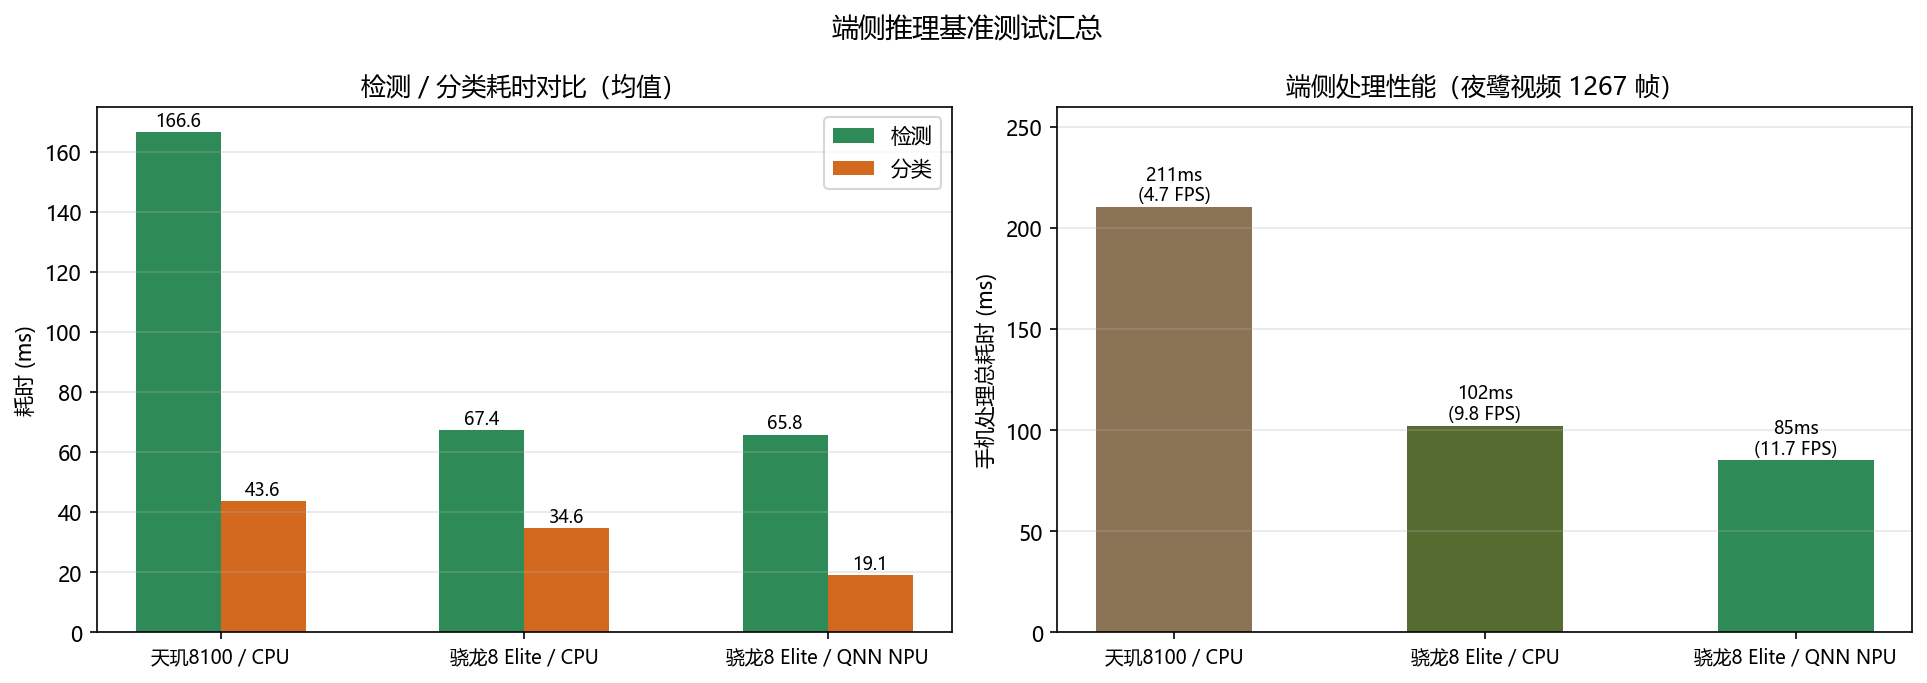
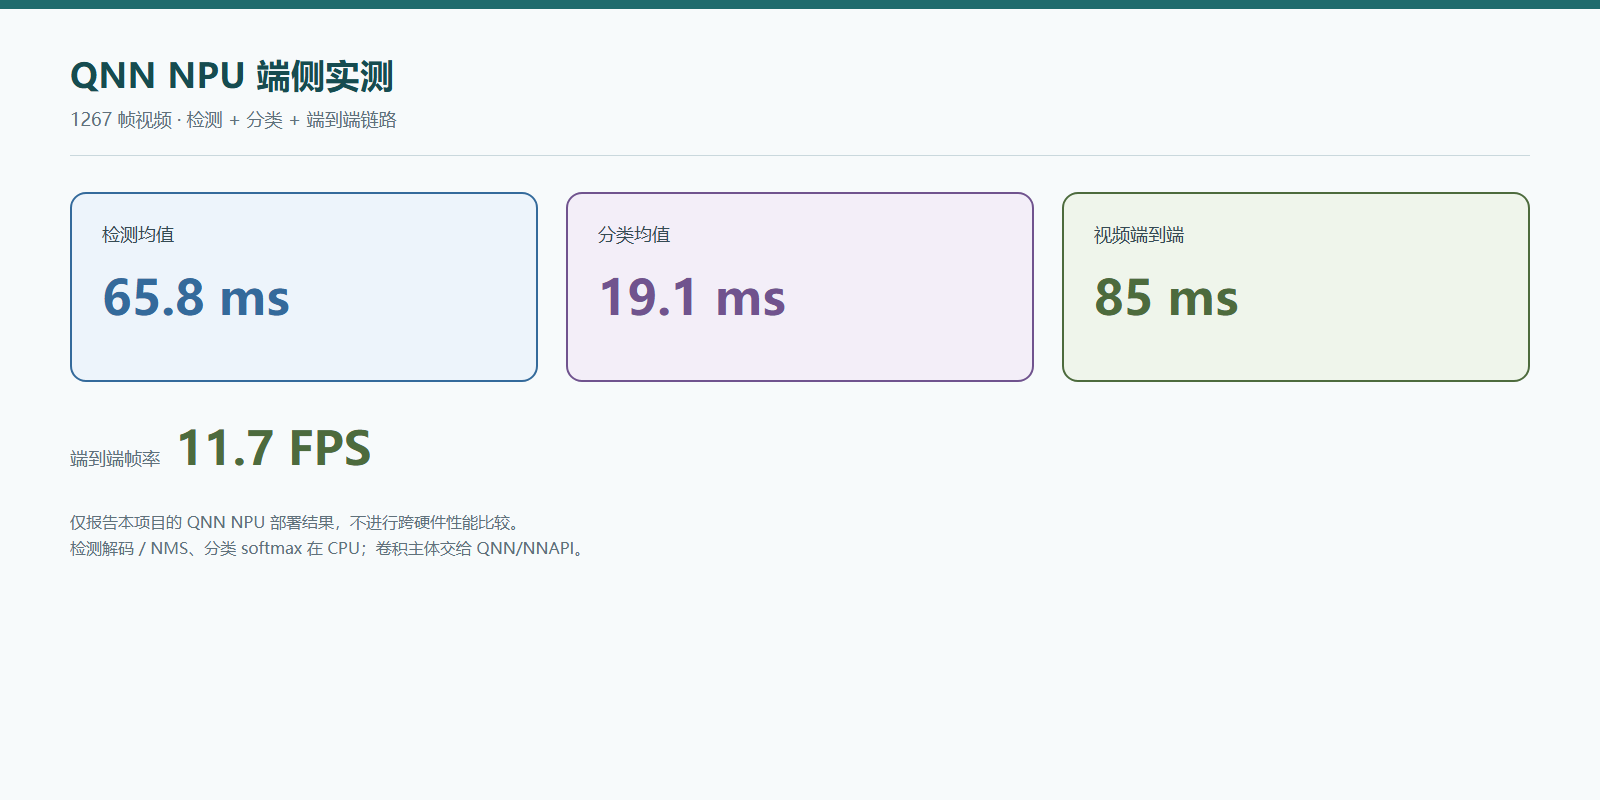
docs: report project benchmark without hardware comparison

diff --git a/README.md b/README.md
@@ -57,11 +57,9 @@ flowchart LR
 
 测试视频共 1267 帧：
 
-| 平台 | 检测均值 | 分类均值 | 端到端 | 帧率 |
+| 环境 | 检测均值 | 分类均值 | 端到端 | 帧率 |
 | --- | ---: | ---: | ---: | ---: |
-| 天玑 8100 / CPU | 166.6 ms | 43.6 ms | 211 ms | 4.7 FPS |
-| 骁龙 8 Elite / CPU | 67.4 ms | 34.6 ms | 102 ms | 9.8 FPS |
-| 骁龙 8 Elite / QNN NPU | 65.8 ms | 19.1 ms | 85 ms | 11.7 FPS |
+| QNN NPU | 65.8 ms | 19.1 ms | 85 ms | 11.7 FPS |
 
 ![端侧性能](assets/edge-benchmark.png)
 

diff --git a/docs/results.md b/docs/results.md
@@ -19,8 +19,6 @@
 
 1267 帧测试视频：
 
-- 骁龙 8 Elite QNN NPU：85 ms，11.7 FPS
-- 天玑 8100 CPU：211 ms，4.7 FPS
-- 端到端约 2.5 倍提速
+- QNN NPU：检测 65.8 ms、分类 19.1 ms、端到端 85 ms、11.7 FPS
 
 这些数字来自对应的评估/基准流程；面试时应同时说明数据集、设备、输入尺寸和指标口径。
